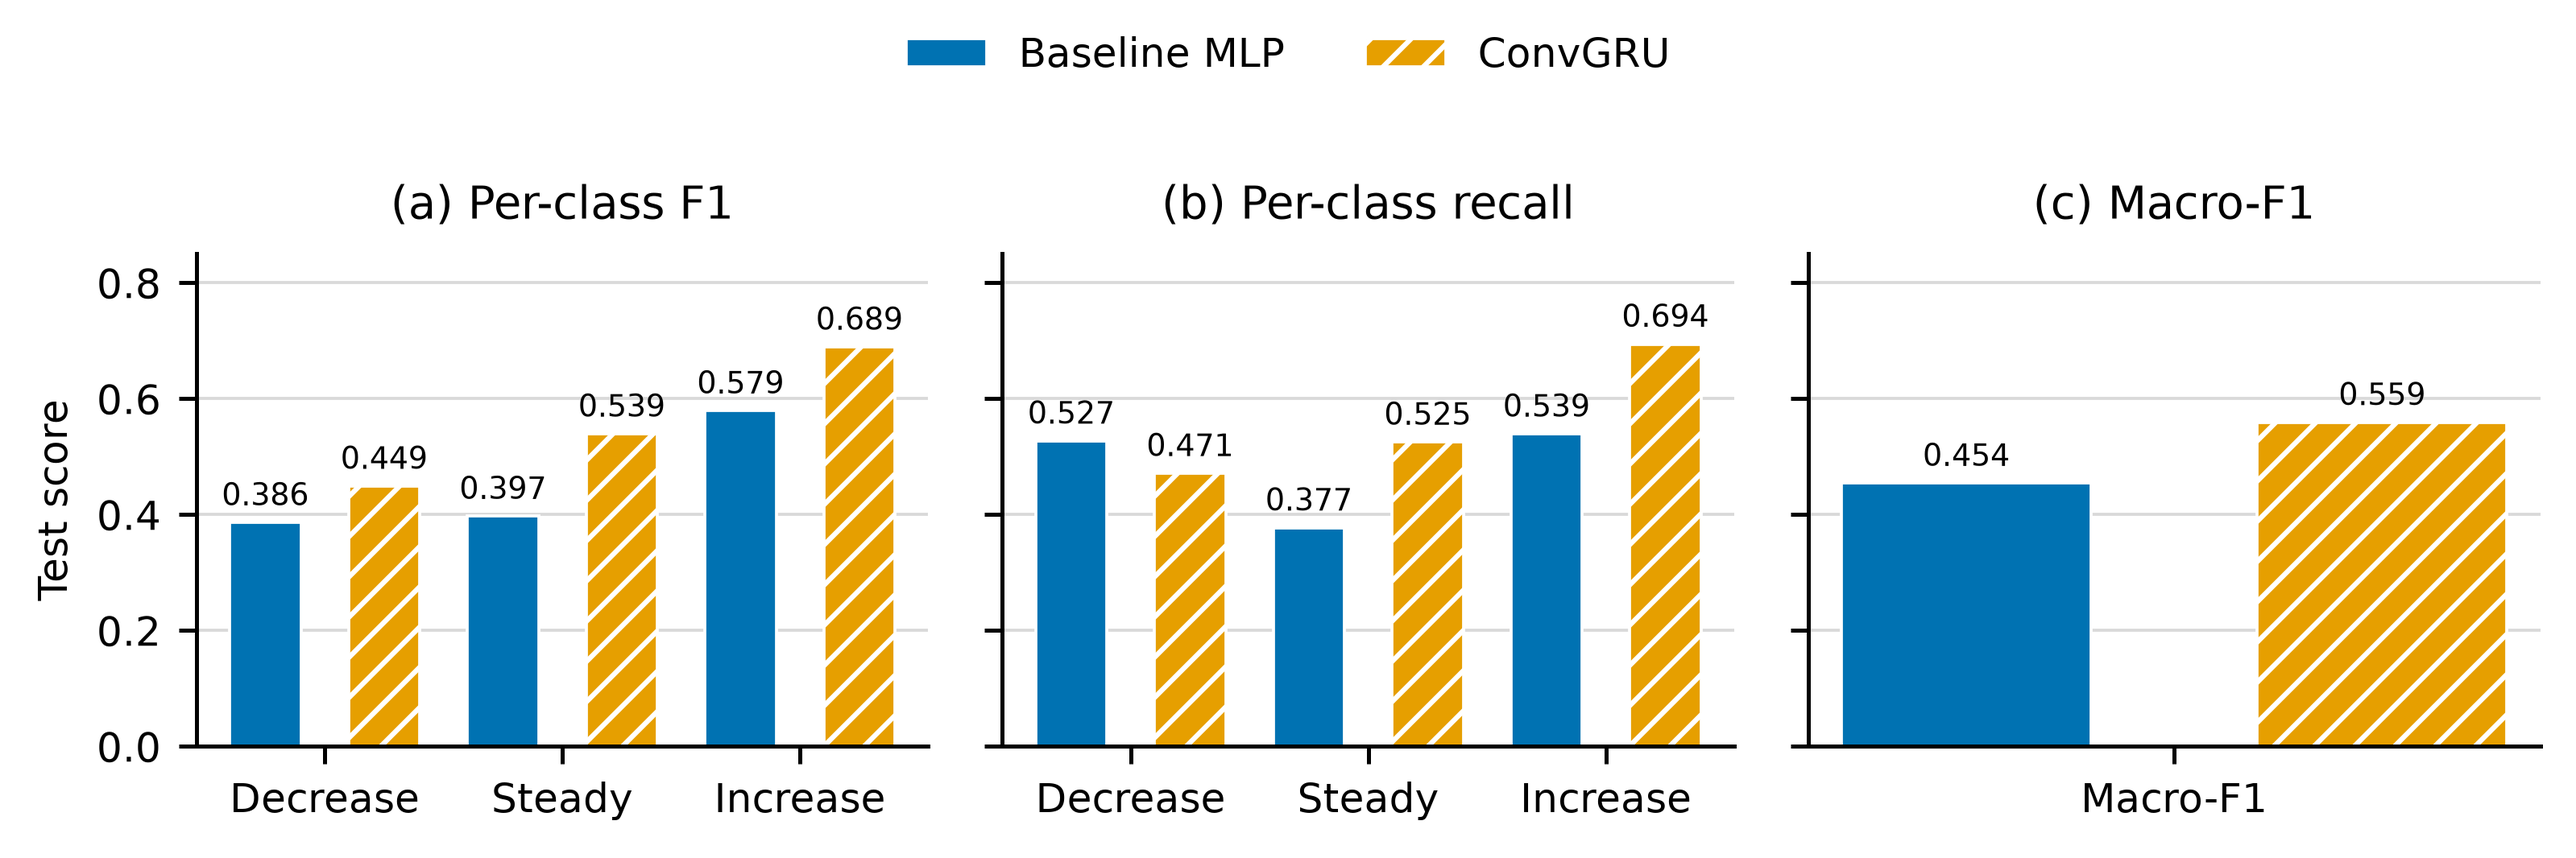
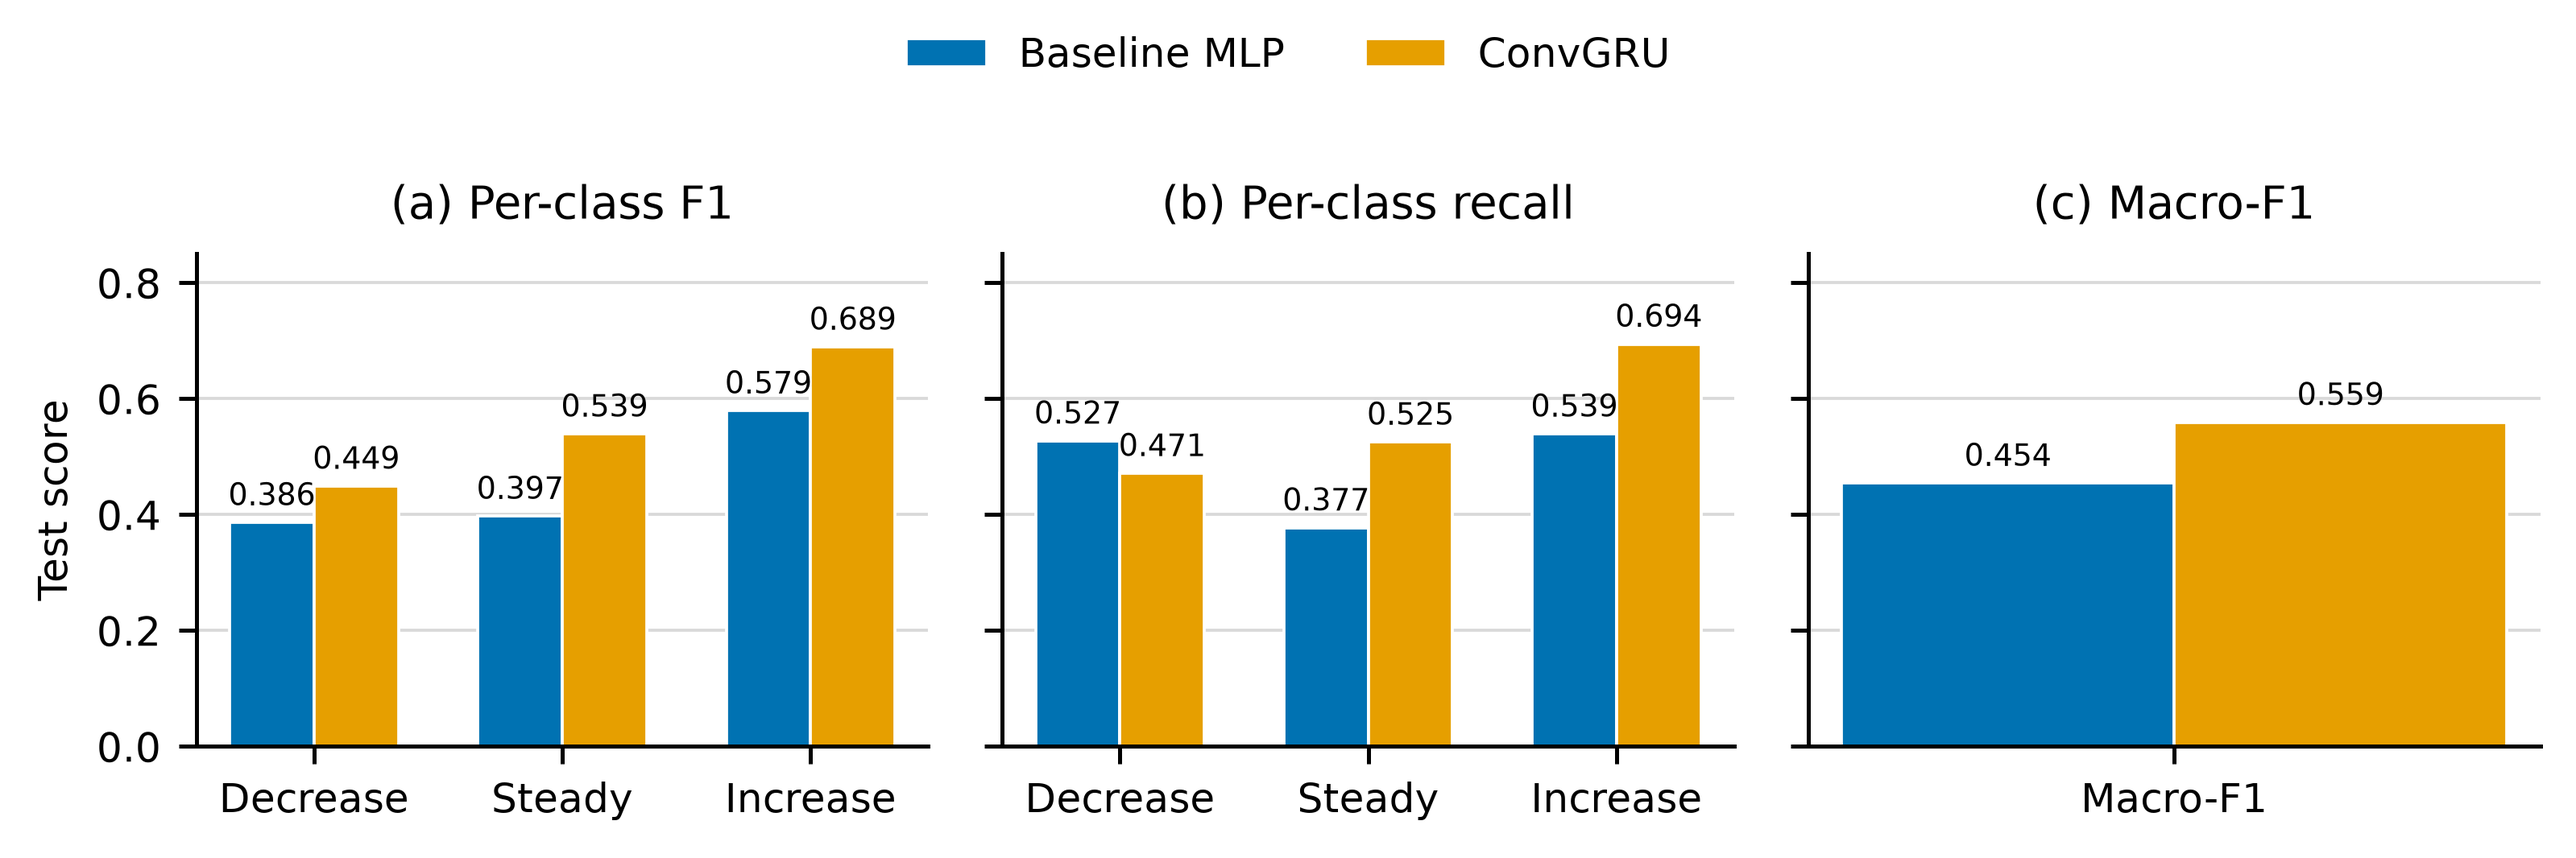
Refine test classification performance bars

diff --git a/scripts/visuals/plot_classification_performance.py b/scripts/visuals/plot_classification_performance.py
@@ -52,6 +52,7 @@ def _plot_grouped_bars(
     values: np.ndarray,
     split_names: tuple[str, ...],
     *,
+    adjacent_model_bars: bool = False,
     show_split_names: bool = True,
 ) -> None:
     category_count = len(category_names)
@@ -60,13 +61,14 @@ def _plot_grouped_bars(
     positions = np.concatenate(
         [split_start + np.arange(category_count) for split_start in split_starts]
     )
-    bar_width = 0.30
-    model_offset = 0.25
+    bar_width = 0.34 if adjacent_model_bars else 0.30
+    model_offset = bar_width / 2 if adjacent_model_bars else 0.25
+    model_offsets = (-model_offset, model_offset)
+    model_hatches = (None, None) if adjacent_model_bars else MODEL_HATCHES
 
-    for model_index, (model_name, color, hatch) in enumerate(
-        zip(MODEL_NAMES, MODEL_COLORS, MODEL_HATCHES, strict=True)
+    for model_index, (model_name, color, hatch, offset) in enumerate(
+        zip(MODEL_NAMES, MODEL_COLORS, model_hatches, model_offsets, strict=True)
     ):
-        offset = -model_offset if model_index == 0 else model_offset
         bars = axis.bar(
             positions + offset,
             values[model_index].reshape(-1),
@@ -156,6 +158,7 @@ def _save_test_figure() -> None:
             category_names,
             values,
             (SPLIT_NAMES[test_index],),
+            adjacent_model_bars=True,
             show_split_names=False,
         )
         axis.set_title(title, pad=7)
